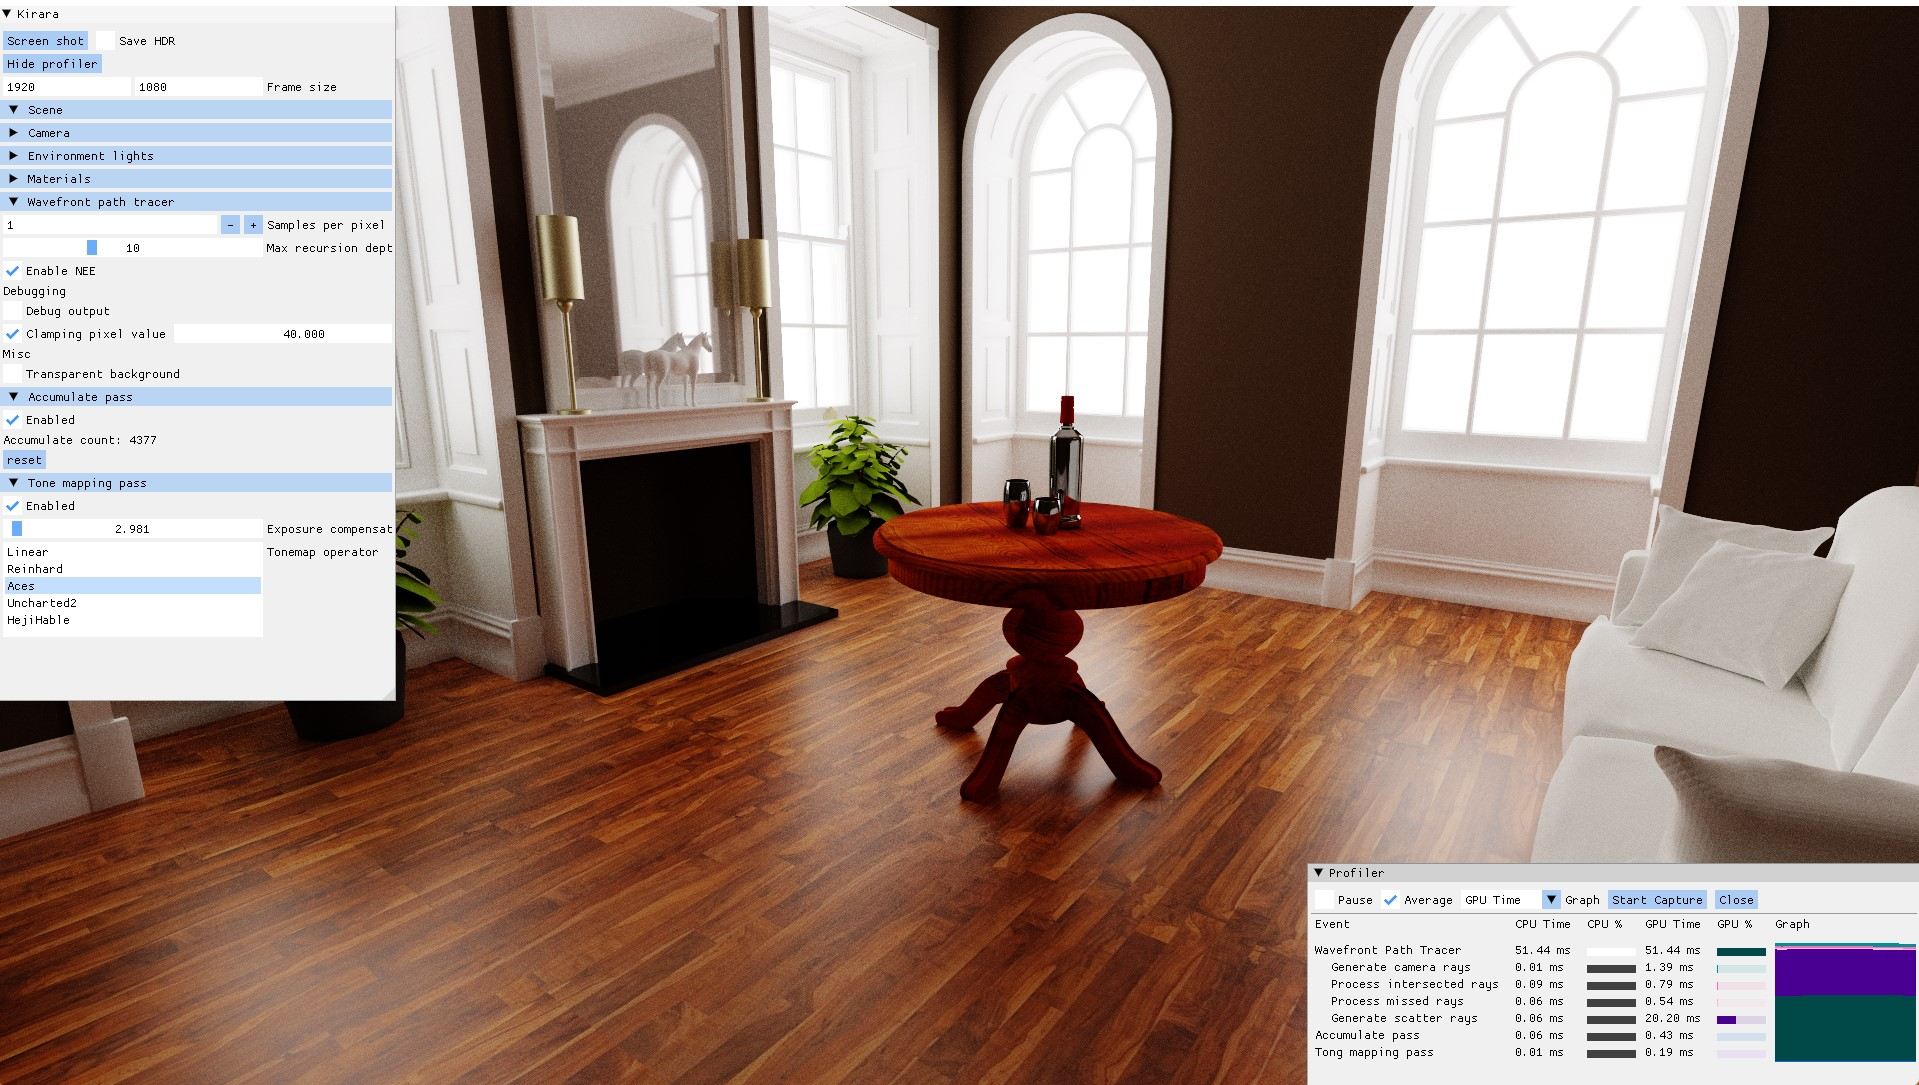
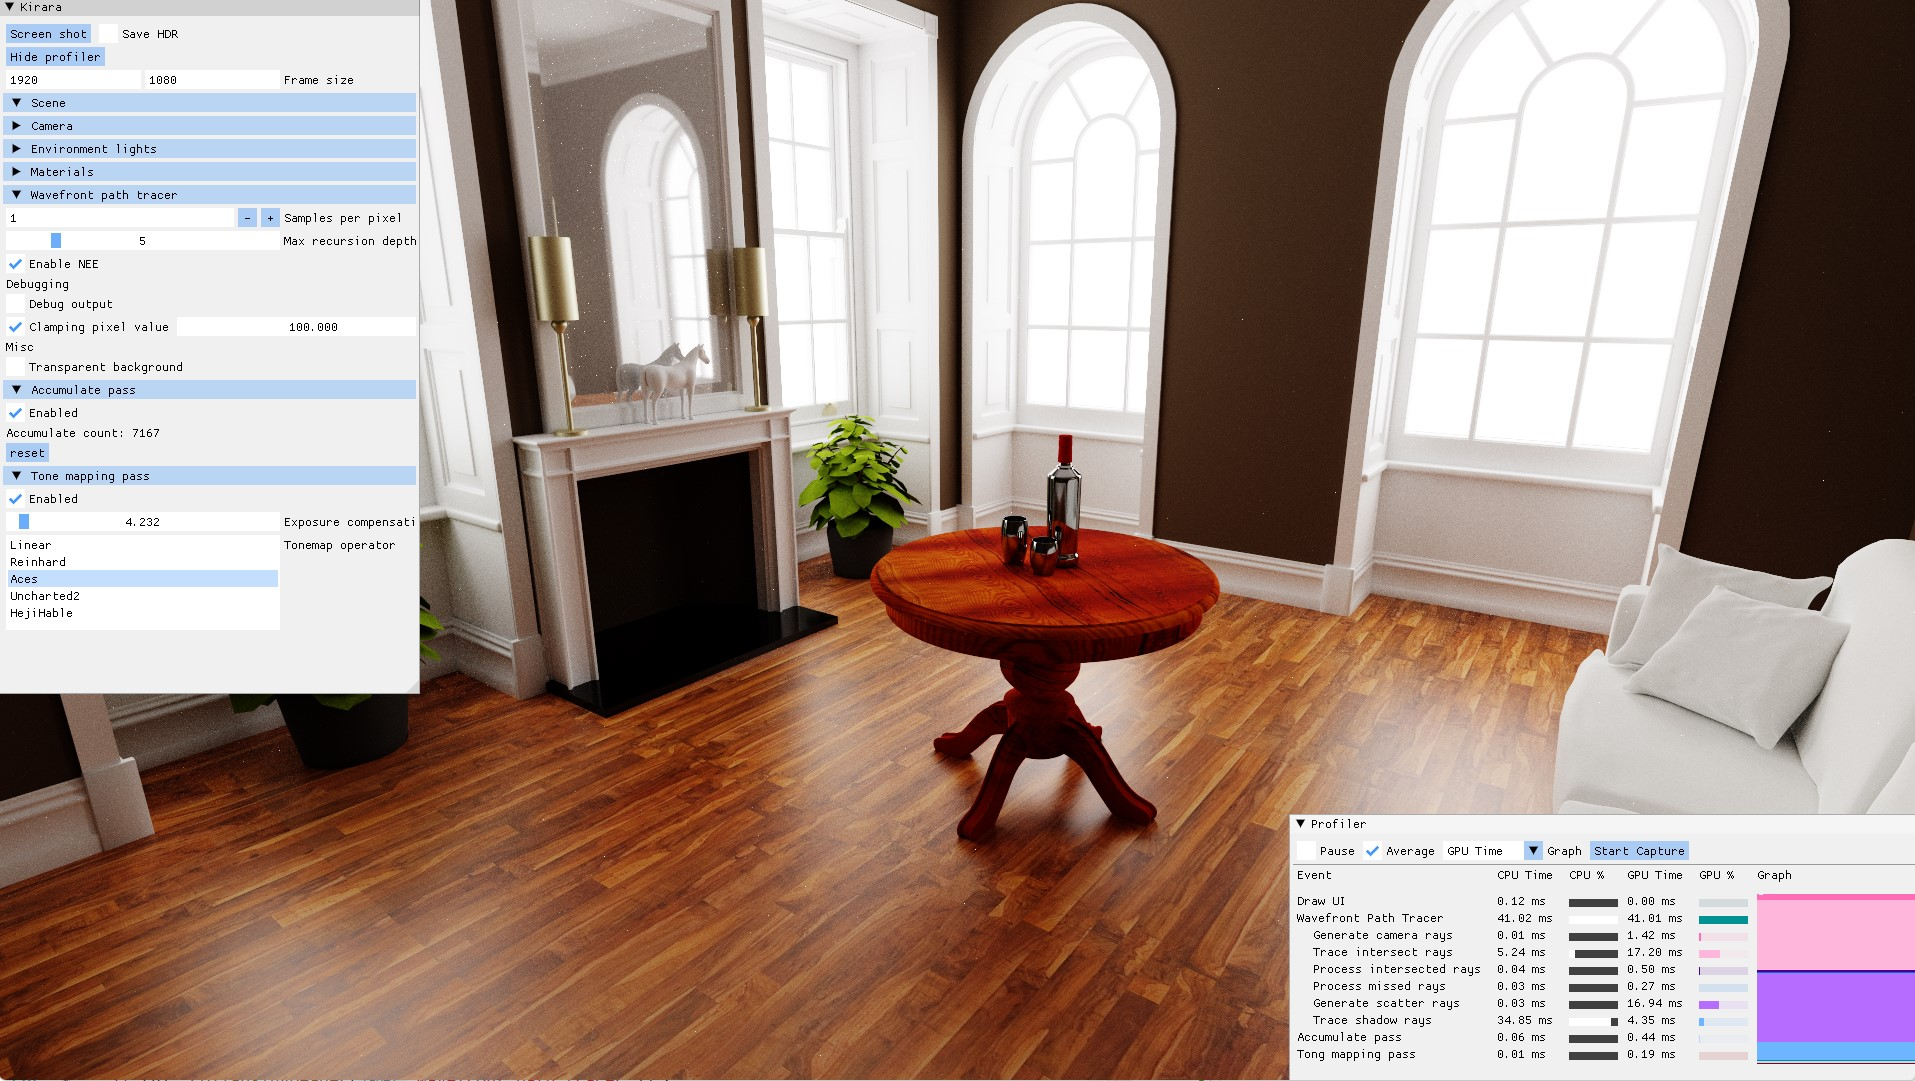
minor fixes on performance and profiler

diff --git a/src/core/device/timer.h b/src/core/device/timer.h
@@ -8,39 +8,40 @@ KRR_NAMESPACE_BEGIN
 
 class GpuTimer {
 public:
-    GpuTimer() {
-        cudaEventCreate(&start);
-        cudaEventCreate(&stop);
-    };
+	GpuTimer() {
+		cudaEventCreate(&start);
+		cudaEventCreate(&stop);
+	};
 	
-    ~GpuTimer() {
-        // TODO: this cannot work
-        //cudaEventDestroy(start);
-        //cudaEventDestroy(stop);
-    };
+	~GpuTimer() {
+		// TODO: this cannot work
+		//cudaEventDestroy(start);
+		//cudaEventDestroy(stop);
+	};
 
-    void begin(CUstream _stream = 0) {
-        stream = _stream;
-        cudaEventRecord(start, stream);
-    }
+	void begin(CUstream _stream = 0) {
+		stream = _stream;
+		cudaEventRecord(start, stream);
+	}
 	
-    void end() {
-        cudaEventRecord(stop, stream);
-    }
+	void end() {
+		cudaEventRecord(stop, stream);
+	}
 
-    /** Get the elapsed time in milliseconds between a pair of Begin()/End() calls. \n
-        If this function called not after a Begin()/End() pair, zero will be returned and a warning will be logged.
-    */
-    double getElapsedTime() {
-        float time{ 0 };
-        cudaEventSynchronize(stop);
-        cudaEventElapsedTime(&time, start, stop);
-        return time;
-    }
+	/** Get the elapsed time in milliseconds between a pair of Begin()/End() calls. \n
+		If this function called not after a Begin()/End() pair, zero will be returned and a warning will be logged.
+	*/
+	double getElapsedTime() {
+		float time{ 0 };
+		cudaEventSynchronize(stop);
+		cudaEventElapsedTime(&time, start, stop);
+		return time;
+	}
 
 private:
-    CUstream stream{ 0 };
-    cudaEvent_t start, stop;
+	CUstream stream{ 0 };
+	cudaEvent_t start, stop;
+	GLuint glQuery;
 };
 
 KRR_NAMESPACE_END

diff --git a/src/core/window.cpp b/src/core/window.cpp
@@ -12,10 +12,8 @@ namespace api{
 	using namespace krr::io;
 	inline KeyboardEvent::Key glfwToFalcorKey(int glfwKey);
 
-	inline const char* getGLErrorString(GLenum error)
-	{
-		switch (error)
-		{
+	inline const char* getGLErrorString(GLenum error) {
+		switch (error) {
 			case GL_NO_ERROR:            return "No error";
 			case GL_INVALID_ENUM:        return "Invalid enum";
 			case GL_INVALID_VALUE:       return "Invalid value";
@@ -27,8 +25,7 @@ namespace api{
 		}
 	}
 
-	void initGLFW()
-	{
+	void initGLFW() {
 		static bool initialized = false;
 		if (initialized) return;
 		if (!glfwInit())
@@ -167,10 +164,9 @@ namespace api{
 		}
 
 		static inline bool prepareKeyboardEvent(int key, int action, int modifiers, KeyboardEvent& event){
-			if (action == GLFW_REPEAT || key == GLFW_KEY_UNKNOWN){
+			if (action == GLFW_REPEAT || key == GLFW_KEY_UNKNOWN)
 				return false;
-			}
-
+			
 			event.type = (action == GLFW_RELEASE ? KeyboardEvent::Type::KeyReleased : KeyboardEvent::Type::KeyPressed);
 			event.key = glfwToFalcorKey(key);
 			event.mods = getInputModifiers(modifiers);
@@ -186,14 +182,12 @@ WindowApp::WindowApp(const char title[], vec2i size, bool visible, bool enableVs
 	glfwSetErrorCallback(ApiCallbacks::errorCallback);
 
 	initGLFW();
-
 	glfwWindowHint(GLFW_CONTEXT_VERSION_MAJOR, 2);
 	glfwWindowHint(GLFW_CONTEXT_VERSION_MINOR, 0);
 	glfwWindowHint(GLFW_VISIBLE, visible);
 
 	handle = glfwCreateWindow(size.x, size.y, title, NULL, NULL);
-	if (!handle)
-	{
+	if (!handle) {
 		glfwTerminate();
 		exit(EXIT_FAILURE);
 	}

diff --git a/src/render/wavefront/backend.cpp b/src/render/wavefront/backend.cpp
@@ -2,6 +2,7 @@
 #include "device/optix.h"
 #include "device/cuda.h"
 #include "render/shared.h"
+#include "render/profiler/profiler.h"
 
 KRR_NAMESPACE_BEGIN
 
@@ -302,6 +303,7 @@ void OptiXWavefrontBackend::traceClosest(int numRays,
 	ScatterRayQueue* scatterRayQueue,
 	RayQueue* nextRayQueue){
 	if (optixTraversable) {
+		PROFILE("Trace intersect rays");
 		static LaunchParams params = {};
 		params.traversable = optixTraversable;
 		params.sceneData = sceneData;
@@ -326,6 +328,7 @@ void OptiXWavefrontBackend::traceShadow(int numRays,
 	ShadowRayQueue* shadowRayQueue,
 	PixelStateBuffer* pixelState){
 	if (optixTraversable) {
+		PROFILE("Trace shadow rays");
 		static LaunchParams params = {};
 		params.traversable = optixTraversable;
 		params.sceneData = sceneData;

diff --git a/src/render/wavefront/integrator.cpp b/src/render/wavefront/integrator.cpp
@@ -206,10 +206,11 @@ void WavefrontPathTracer::render(CUDABuffer& frame){
 			// [STEP#2.3] evaluate materials & bsdfs
 			generateScatterRays();
 			// [STEP#2.4] trace shadow rays (next event estimation)
-			backend->traceShadow(
-				maxQueueSize,
-				shadowRayQueue,
-				pixelState);
+			if (enableNEE)
+				backend->traceShadow(
+					maxQueueSize,
+					shadowRayQueue,
+					pixelState);
 		}
 	}
 	ParallelFor(maxQueueSize, KRR_DEVICE_LAMBDA(int pixelId){

diff --git a/src/render/profiler/ui.cpp b/src/render/profiler/ui.cpp
@@ -187,9 +187,6 @@ void ProfilerUI::renderOptions() {
 		ui::SameLine();
 		if (ui::Button("Start Capture")) mpProfiler->startCapture();
 	}
-	
-	ui::SameLine();
-	if (ui::Button("Close")) mpProfiler->setEnabled(false);
 
 	ui::Separator();
 }

diff --git a/src/main/renderer.h b/src/main/renderer.h
@@ -64,7 +64,6 @@ public:
 				p->beginFrame(mRenderBuffer);
 				p->render(mRenderBuffer); 
 			}
-		CUDA_SYNC_CHECK();
 		if (Profiler::instance().isEnabled()) Profiler::instance().endFrame();
 	}
 
